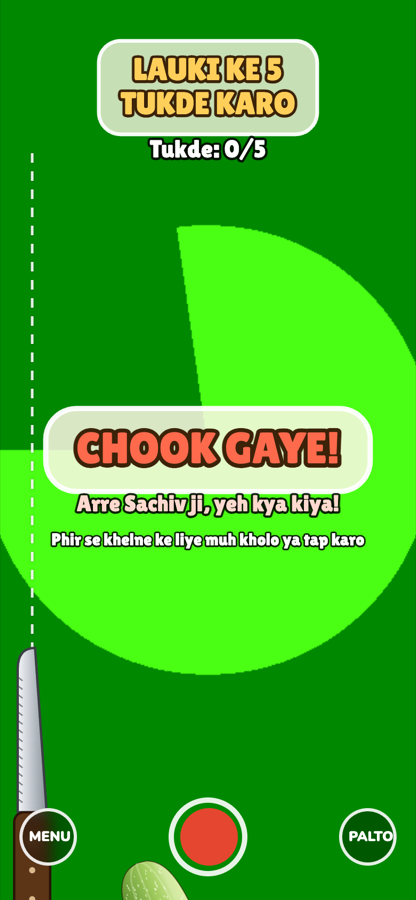
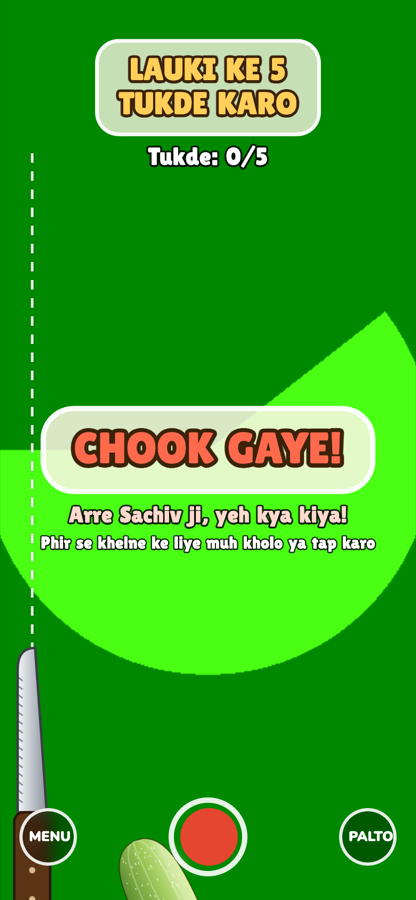
Even out text spacing on home and game screens
Group the chop-mode label with its buttons, give the piece counter and
result lines room under their boxes, and widen word gaps in outlined text.

diff --git a/public/index.html b/public/index.html
@@ -31,7 +31,7 @@
 
   .panel {
     position: fixed; inset: 0; display: flex; flex-direction: column; align-items: center; justify-content: center;
-    gap: 18px; text-align: center;
+    gap: 24px; text-align: center;
     padding: max(20px, env(safe-area-inset-top)) max(20px, env(safe-area-inset-right)) max(20px, env(safe-area-inset-bottom)) max(20px, env(safe-area-inset-left));
     background: /* lime-washed panchayat office wall */
       radial-gradient(40% 30% at 15% 85%, rgba(150,120,70,.18), transparent 70%),
@@ -51,6 +51,7 @@
   .panel p { margin: 0; max-width: 32ch; line-height: 1.45; color: #3b382b; font-size: 16px; font-weight: 700; }
   .panel p b { color: var(--board); }
   .label { font-size: 12px; letter-spacing: .14em; text-transform: uppercase; color: #7a7158; font-weight: 900; }
+  .group { display: flex; flex-direction: column; align-items: center; gap: 10px; }
   .chips { display: flex; flex-wrap: wrap; gap: 10px; justify-content: center; max-width: 420px; }
   .chip {
     font: 900 16px var(--body); color: var(--ink); background: var(--cream); border: 3px solid var(--ink);
@@ -99,13 +100,17 @@
     <div class="tag">5 tukde · 1 chaaku · 0 galti</div>
   </div>
   <p>Chaaku idhar-udhar chalega. Jab woh <b>lauki</b> ke upar ho, tab kaato. <b>5 tukde</b> kiye toh jeet. Ek baar bhi chooke toh haar.</p>
-  <div class="label">Kaise kaatna hai</div>
-  <div class="chips" id="modeChips">
-    <button class="chip" data-mode="mouth" aria-pressed="true">Muh kholo ya tap</button>
-    <button class="chip" data-mode="tap" aria-pressed="false">Sirf tap</button>
+  <div class="group">
+    <div class="label">Kaise kaatna hai</div>
+    <div class="chips" id="modeChips">
+      <button class="chip" data-mode="mouth" aria-pressed="true">Muh kholo ya tap</button>
+      <button class="chip" data-mode="tap" aria-pressed="false">Sirf tap</button>
+    </div>
   </div>
-  <button class="btn" id="go">CAMERA SHURU KARO</button>
-  <div class="small" id="startNote">Front camera chalega. Kuch bhi upload nahi hota.</div>
+  <div class="group">
+    <button class="btn" id="go">CAMERA SHURU KARO</button>
+    <div class="small" id="startNote">Front camera chalega. Kuch bhi upload nahi hota.</div>
+  </div>
 </section>
 
 <div class="hud" id="hud" hidden>
@@ -350,22 +355,27 @@ function drawKnife(x, yTip, scale) {
 
 function pill(text, cx, cy, size, fill = "#ffcf5a", bg = "rgba(255,248,232,.78)") {
   ctx.font = `${size}px "Lilita One", system-ui`;
+  if ("wordSpacing" in ctx) ctx.wordSpacing = `${size * 0.12}px`;
   const lines = text.split("\n"), lw = Math.max(...lines.map((l) => ctx.measureText(l).width)), lh = size * 1.1;
   const bw = lw + size * 1.4, bh = lh * lines.length + size * 0.8;
   ctx.fillStyle = bg; ctx.strokeStyle = "rgba(255,255,255,.95)"; ctx.lineWidth = size * 0.12;
   ctx.beginPath(); ctx.roundRect(cx - bw / 2, cy - bh / 2, bw, bh, size * 0.7); ctx.fill(); ctx.stroke();
   ctx.textAlign = "center"; ctx.textBaseline = "middle"; ctx.lineJoin = "round";
+  if ("wordSpacing" in ctx) ctx.wordSpacing = `${size * 0.12}px`;
   lines.forEach((l, i) => {
     const y = cy - (lines.length - 1) * lh / 2 + i * lh;
     ctx.lineWidth = size * 0.2; ctx.strokeStyle = "#3b2208"; ctx.strokeText(l, cx, y);
     ctx.fillStyle = fill; ctx.fillText(l, cx, y);
   });
+  if ("wordSpacing" in ctx) ctx.wordSpacing = "0px";
   return { bw, bh };
 }
 
 function outlined(text, x, y, size, fill = "#fff") {
   ctx.font = `${size}px "Lilita One", system-ui`; ctx.textAlign = "center"; ctx.textBaseline = "middle"; ctx.lineJoin = "round";
-  ctx.lineWidth = size * 0.22; ctx.strokeStyle = "rgba(0,0,0,.85)"; ctx.strokeText(text, x, y); ctx.fillStyle = fill; ctx.fillText(text, x, y);
+  if ("wordSpacing" in ctx) ctx.wordSpacing = `${size * 0.14}px`; // the thick outline eats the gaps between words
+  ctx.lineWidth = size * 0.18; ctx.strokeStyle = "rgba(0,0,0,.85)"; ctx.strokeText(text, x, y); ctx.fillStyle = fill; ctx.fillText(text, x, y);
+  if ("wordSpacing" in ctx) ctx.wordSpacing = "0px";
 }
 
 /* ---------- main loop ---------- */
@@ -444,7 +454,7 @@ function frame(now) {
     // HUD drawn on canvas so it is in the recording
     const s = Math.max(22, Math.min(34, W * 0.075));
     pill(`${v.name} KE ${PIECES_TO_WIN}\nTUKDE KARO`, W / 2, H * 0.09 + 6, s);
-    outlined(`Tukde: ${game.pieces}/${PIECES_TO_WIN}`, W / 2, H * 0.09 + s * 2.2, s * 0.78);
+    outlined(`Tukde: ${game.pieces}/${PIECES_TO_WIN}`, W / 2, H * 0.09 + s * 2.45, s * 0.78);
     if (game.flash > 0) { game.flash = Math.max(0, game.flash - dt * 3); outlined("KHACH!", kx, b.y - b.h * 0.9, s * (1 + game.flash * 0.4), `rgba(255,214,90,${game.flash})`); }
     if (game.msg && game.state === "play") outlined(game.msg, W / 2, H * 0.93, 15);
     if (game.state === "play" && mode === "mouth" && !faceS) outlined("Camera mein chehra dikhao", W / 2, H * 0.62, 18);
@@ -454,8 +464,8 @@ function frame(now) {
       ctx.save(); ctx.translate(W / 2, H * 0.5); ctx.scale(sc, sc); ctx.translate(-W / 2, -H * 0.5);
       pill(game.won ? "JEET GAYE!" : "CHOOK GAYE!", W / 2, H * 0.5, s * 1.4, game.won ? "#9df07a" : "#ff6a4d", "rgba(255,248,232,.85)");
       ctx.restore();
-      outlined(game.won ? "Pradhan ji khush hue!" : "Arre Sachiv ji, yeh kya kiya!", W / 2, H * 0.5 + s * 1.75, s * 0.72, game.won ? "#fff3c4" : "#ffd9cf");
-      if (now - game.endAt > 700) outlined(mode === "mouth" ? "Phir se khelne ke liye muh kholo ya tap karo" : "Phir se khelne ke liye tap karo", W / 2, H * 0.5 + s * 2.9, 16);
+      outlined(game.won ? "Pradhan ji khush hue!" : "Arre Sachiv ji, yeh kya kiya!", W / 2, H * 0.5 + s * 2.1, s * 0.72, game.won ? "#fff3c4" : "#ffd9cf");
+      if (now - game.endAt > 700) outlined(mode === "mouth" ? "Phir se khelne ke liye muh kholo ya tap karo" : "Phir se khelne ke liye tap karo", W / 2, H * 0.5 + s * 3.0, 16);
     }
   }
   requestAnimationFrame(frame);
